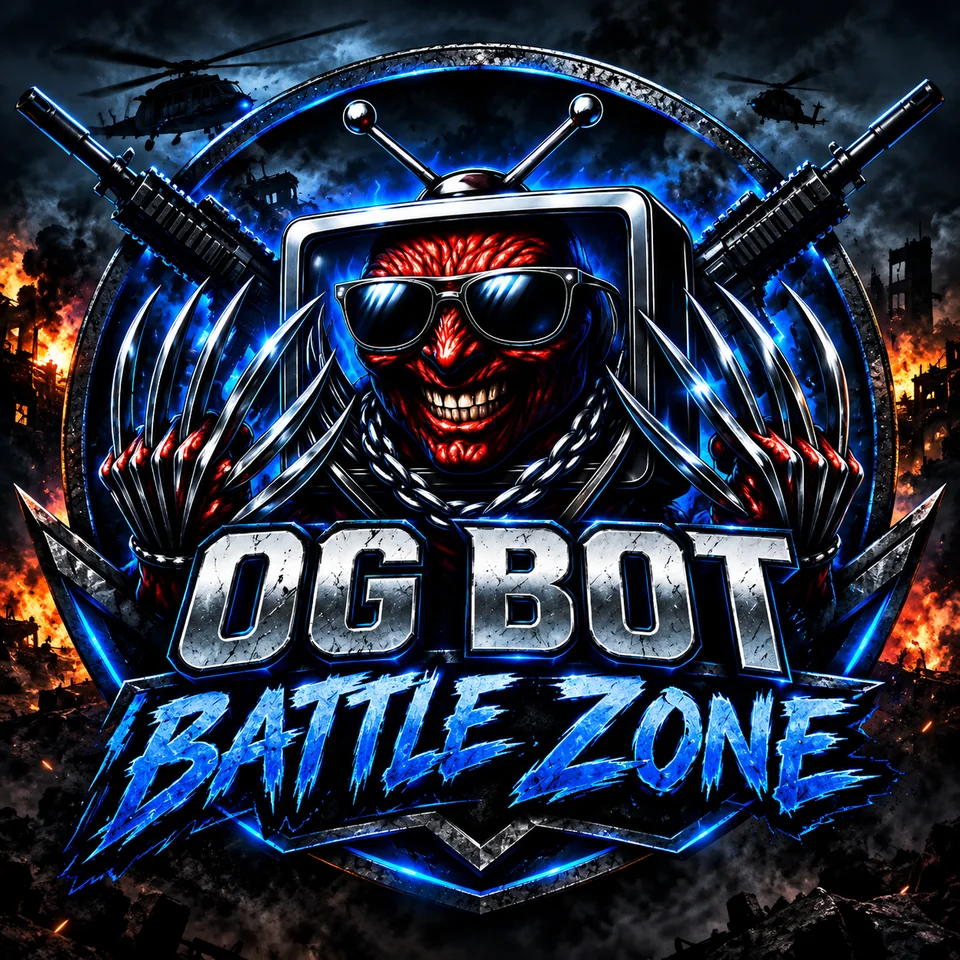
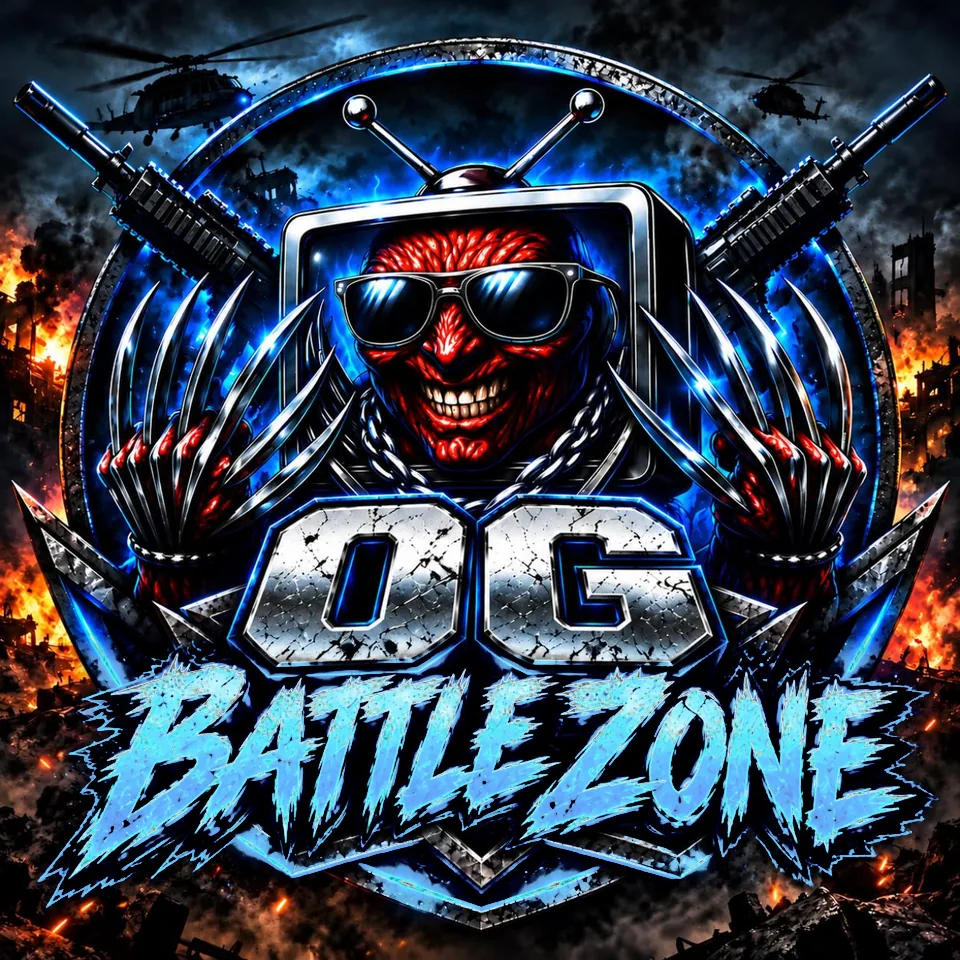
New Battle Zone, Make a Track and OG Vault badges, richer OG coin
Swap in the new badge art (blue lettering brightened with a dark edge so
it reads on the blue background), use the Vault badge for the OG Vault
pass in the store, use the Battle Zone badge on the Roast & Destroy card,
and give the OG coin a reeded rim, raised face, stamped letters and a
sparkle.

Claude-Session: https://claude.ai/code/session_01HiK2WcS1YP4q3Cuw2sNtcF

diff --git a/src/styles.css b/src/styles.css
@@ -1785,6 +1785,8 @@ html[data-kb="1"] nav.safe-bottom.fixed {
   --pw-purple: oklch(0.62 0.24 305);
   --pw-gold: oklch(0.84 0.15 85);
   --pw-gold-deep: oklch(0.58 0.12 70);
+  --pw-gold-light: oklch(0.96 0.08 95);
+  --pw-gold-dark: oklch(0.4 0.09 60);
   --pw-white: oklch(0.99 0 0);
   background:
     radial-gradient(60% 40% at 50% 0%, color-mix(in oklab, var(--pw-blue) 18%, transparent), transparent 70%),
@@ -1897,7 +1899,6 @@ html[data-kb="1"] nav.safe-bottom.fixed {
 @media (min-width: 768px) {
   .og-power-card__art { height: 10rem; }
   .og-power-card__img { height: 9rem; }
-  .og-power-card__img--wide { height: 12rem; }
 }
 .og-power-card__img {
   position: relative;
@@ -1908,13 +1909,6 @@ html[data-kb="1"] nav.safe-bottom.fixed {
   object-fit: contain;
   border-radius: 0.9rem;
   filter: drop-shadow(0 10px 22px color-mix(in oklab, var(--c1) 60%, transparent));
-}
-.og-power-card__img--wide {
-  height: 10rem;
-  max-width: 112%;
-  border-radius: 0;
-  -webkit-mask-image: radial-gradient(ellipse at center, black 45%, transparent 75%);
-  mask-image: radial-gradient(ellipse at center, black 45%, transparent 75%);
 }
 
 /* Roast: rising embers. */
@@ -1953,38 +1947,88 @@ html[data-kb="1"] nav.safe-bottom.fixed {
   animation: og-pw-eq 1.4s ease-in-out infinite alternate;
 }
 
-/* Vault: a gold OG coin with a shimmer, plus two floating mini coins. */
+/* Vault: a minted gold OG coin (reeded rim, raised face, stamped letters,
+   shimmer and a sparkle), plus two floating mini coins. */
 .og-coin {
   position: relative;
   z-index: 1;
   display: grid;
-  width: 5.75rem;
-  height: 5.75rem;
+  width: 6.25rem;
+  height: 6.25rem;
   place-items: center;
-  overflow: hidden;
   border-radius: 9999px;
-  background: radial-gradient(circle at 35% 30%, var(--pw-white) 0 4%, var(--pw-gold) 22%, var(--pw-gold-deep) 70%, var(--pw-gold) 100%);
+  background:
+    repeating-conic-gradient(from 0deg, color-mix(in oklab, var(--pw-gold-dark) 45%, transparent) 0 2deg, transparent 2deg 5deg),
+    conic-gradient(from 200deg, var(--pw-gold-light), var(--pw-gold) 18%, var(--pw-gold-dark) 34%, var(--pw-gold) 50%, var(--pw-gold-light) 64%, var(--pw-gold-deep) 82%, var(--pw-gold-light));
   box-shadow:
-    inset 0 0 0 5px color-mix(in oklab, var(--pw-gold-deep) 80%, transparent),
-    inset 0 0 0 7px color-mix(in oklab, var(--pw-white) 35%, transparent),
-    0 0 0 2px color-mix(in oklab, var(--pw-blue) 70%, transparent),
-    0 12px 34px -6px color-mix(in oklab, var(--pw-gold) 70%, transparent);
+    inset 0 0 0 1px color-mix(in oklab, var(--pw-gold-light) 70%, transparent),
+    0 0 0 1.5px color-mix(in oklab, var(--pw-gold-dark) 90%, transparent),
+    0 0 26px 2px color-mix(in oklab, var(--pw-gold) 45%, transparent),
+    0 16px 30px -10px color-mix(in oklab, var(--pw-ink) 95%, transparent);
   animation: og-pw-float 5s ease-in-out infinite;
 }
+/* Raised inner face with an engraved ring. */
+.og-coin::before {
+  content: "";
+  position: absolute;
+  inset: 11%;
+  border-radius: 9999px;
+  background:
+    radial-gradient(circle at 32% 26%, color-mix(in oklab, var(--pw-white) 85%, transparent) 0 5%, transparent 22%),
+    radial-gradient(circle at 50% 45%, var(--pw-gold-light) 0%, var(--pw-gold) 42%, var(--pw-gold-deep) 88%, var(--pw-gold-dark) 100%);
+  box-shadow:
+    inset 0 0 0 3px color-mix(in oklab, var(--pw-gold-deep) 55%, transparent),
+    inset 0 0 0 4px color-mix(in oklab, var(--pw-gold-light) 55%, transparent),
+    inset 0 -6px 10px color-mix(in oklab, var(--pw-gold-dark) 55%, transparent),
+    0 2px 3px color-mix(in oklab, var(--pw-gold-dark) 80%, transparent);
+}
+/* Light sweep, clipped to the coin. */
 .og-coin::after {
   content: "";
   position: absolute;
-  inset: -20%;
-  background: linear-gradient(105deg, transparent 40%, color-mix(in oklab, var(--pw-white) 70%, transparent) 50%, transparent 60%);
-  transform: translateX(-120%);
-  animation: og-pw-shimmer 4s ease-in-out 1s infinite;
+  inset: 0;
+  border-radius: 9999px;
+  background: linear-gradient(105deg, transparent 38%, color-mix(in oklab, var(--pw-white) 65%, transparent) 50%, transparent 62%) no-repeat;
+  background-size: 250% 100%;
+  background-position: 130% 0;
+  animation: og-coin-sweep 4s ease-in-out 1s infinite;
 }
 .og-coin__face {
+  position: relative;
+  z-index: 1;
   font-family: var(--font-display);
-  font-size: 1.9rem;
+  font-size: 2.05rem;
   line-height: 1;
+  letter-spacing: -0.02em;
   color: var(--pw-gold-deep);
-  text-shadow: 0 1px 0 color-mix(in oklab, var(--pw-white) 60%, transparent);
+  /* Stamped look: light catch below, dark cut above. */
+  text-shadow:
+    0 1px 0 color-mix(in oklab, var(--pw-gold-light) 90%, transparent),
+    0 -1px 0 color-mix(in oklab, var(--pw-gold-dark) 85%, transparent);
+}
+.og-coin__spark {
+  position: absolute;
+  top: 6%;
+  right: 8%;
+  z-index: 2;
+  width: 1.1rem;
+  height: 1.1rem;
+  background: var(--pw-white);
+  clip-path: polygon(50% 0, 60% 40%, 100% 50%, 60% 60%, 50% 100%, 40% 60%, 0 50%, 40% 40%);
+  filter: drop-shadow(0 0 4px var(--pw-gold-light));
+  animation: og-coin-twinkle 3.2s ease-in-out infinite;
+}
+@keyframes og-coin-sweep {
+  0%, 55% { background-position: 130% 0; }
+  100% { background-position: -30% 0; }
+}
+@keyframes og-coin-twinkle {
+  0%, 100% { opacity: 0; transform: scale(0.4) rotate(0deg); }
+  45%, 60% { opacity: 1; transform: scale(1) rotate(45deg); }
+}
+@media (prefers-reduced-motion: reduce) {
+  .og-coin, .og-coin::after, .og-coin__spark { animation: none; }
+  .og-coin__spark { opacity: 0.9; }
 }
 .og-power-card__mini {
   position: absolute;
@@ -1992,8 +2036,11 @@ html[data-kb="1"] nav.safe-bottom.fixed {
   width: 1.1rem;
   height: 1.1rem;
   border-radius: 9999px;
-  background: radial-gradient(circle at 35% 30%, var(--pw-white) 0 6%, var(--pw-gold) 30%, var(--pw-gold-deep));
-  box-shadow: 0 0 10px color-mix(in oklab, var(--pw-gold) 70%, transparent);
+  background:
+    radial-gradient(circle at 35% 30%, var(--pw-white) 0 6%, var(--pw-gold-light) 18%, var(--pw-gold) 40%, var(--pw-gold-deep) 80%, var(--pw-gold-dark));
+  box-shadow:
+    inset 0 0 0 1.5px color-mix(in oklab, var(--pw-gold-dark) 60%, transparent),
+    0 0 10px color-mix(in oklab, var(--pw-gold) 70%, transparent);
   animation: og-pw-float 4.4s ease-in-out infinite;
 }
 

diff --git a/src/components/store/StoreItemCard.tsx b/src/components/store/StoreItemCard.tsx
@@ -19,6 +19,7 @@ import { CoinPill } from "@/components/ui/coin-pill";
 import type { StoreItem } from "@/lib/store.functions";
 import { cn } from "@/lib/utils";
 import sportsGuideArt from "@/assets/og-bot-sports-guide-badge.webp";
+import vaultArt from "@/assets/og-bot-vault.webp";
 
 const RARITY: Record<StoreItem["rarity"], { label: string; icon: ReactNode }> = {
   common: {
@@ -88,10 +89,10 @@ export function StoreItemCard({
   const ownsSportsGuide =
     isSportsGuide && sportsGuideState && !["unowned", "revoked"].includes(sportsGuideState);
   // Phone apps block insecure (http) images, so always load them over https.
-  const imageUrl = isSportsGuide
-    ? sportsGuideArt
-    : item.image_url?.replace(/^http:\/\//i, "https://");
   const isVipPass = item.slug === "og-vip-pass";
+  // Our own badges for the two branded items; everything else uses its store image.
+  const brandArt = isSportsGuide ? sportsGuideArt : isVipPass ? vaultArt : null;
+  const imageUrl = brandArt ?? item.image_url?.replace(/^http:\/\//i, "https://");
   const ownsVipPass = isVipPass && !!vipPass?.owned;
   const vaultKept = ownsVipPass && !vipPass?.trial;
   const vipSoldOut = isVipPass && !ownsVipPass && (vipPass?.available ?? 0) === 0;
@@ -131,7 +132,7 @@ export function StoreItemCard({
             alt={item.name}
             className={cn(
               "h-full w-full transition-transform duration-500 motion-safe:group-hover:scale-105",
-              isSportsGuide ? "object-contain p-2" : "object-cover",
+              brandArt ? "object-contain p-2" : "object-cover",
             )}
             loading="lazy"
             decoding="async"

diff --git a/src/components/welcome/OgPowers.tsx b/src/components/welcome/OgPowers.tsx
@@ -1,6 +1,6 @@
 import type { ReactNode } from "react";
 import { EditableContent } from "@/components/admin/EditableContent";
-import masterLogo from "@/assets/og-bot-master-logo.webp";
+import battleZoneArt from "@/assets/og-bot-battle-zone.webp";
 import createTrackArt from "@/assets/og-bot-create-track.webp";
 
 type Theme = "roast" | "studio" | "vault";
@@ -99,13 +99,13 @@ export function OgPowers({
                 {p.theme === "roast" && (
                   <>
                     <img
-                      src={masterLogo}
+                      src={battleZoneArt}
                       alt=""
-                      width={1607}
-                      height={1275}
+                      width={960}
+                      height={960}
                       loading="lazy"
                       decoding="async"
-                      className="og-power-card__img og-power-card__img--wide"
+                      className="og-power-card__img"
                     />
                     <span className="og-power-card__ember" style={{ left: "18%" }} />
                     <span
@@ -145,6 +145,7 @@ export function OgPowers({
                     />
                     <span className="og-coin">
                       <span className="og-coin__face">OG</span>
+                      <span className="og-coin__spark" />
                     </span>
                   </>
                 )}
